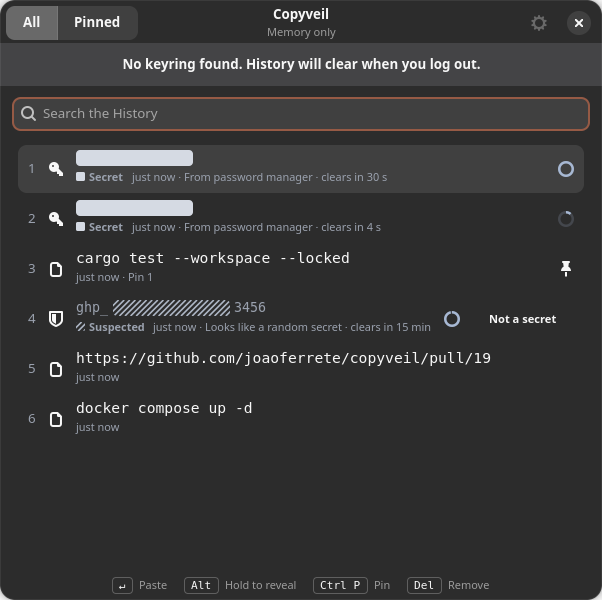
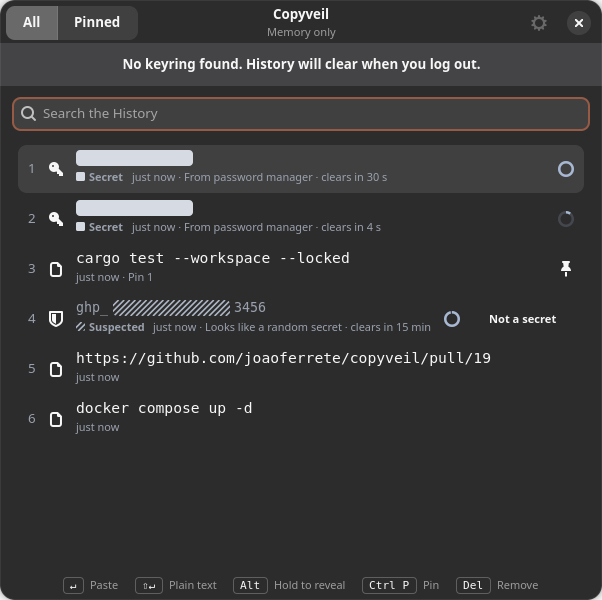
feat(app): paste rich text with its formatting, Shift+Enter as plain text (#31)
## What and why

Rich text was always pasted as plain text, and the hint bar had no
<kbd>⇧</kbd>+<kbd>↵</kbd>, both gaps from the v0.1 review. Now
<kbd>↵</kbd> keeps the formatting and <kbd>⇧</kbd>+<kbd>↵</kbd> pastes
plain text.

**Why the app sets the clipboard, not the extension.** The first plan
was a clipboard source in the extension offering HTML and plain text
together. The headless test showed GJS can't do it:

```
Error: VFunc read_async accepts another callback as a parameter. This is not supported
```

Mutter's own memory source holds a single type, so a capture source
can't offer both. The GTK app can (`gdk::ContentProvider::new_union`),
and at <kbd>↵</kbd> the popup has focus, which Wayland requires to set
the clipboard.

- **<kbd>↵</kbd> on rich text**:
  1. The app fetches the Item (`History1.Content`).
2. It puts the content on the clipboard as `text/html` and `text/plain`
together.
  3. The carbon copy plays.
  4. The popup closes and calls the new **`History1.TypePaste()`**.
5. The daemon emits **`Capture1.TypeRequested`**, and the extension only
presses <kbd>Ctrl</kbd>+<kbd>V</kbd>.

The target app takes the type it understands: an editor gets the
formatting, a terminal gets the text.
- **<kbd>⇧</kbd>+<kbd>↵</kbd>, and every other kind**: the usual
`History1.Paste` through the extension, which pastes rich text as plain
text.
- **The decision** is plain logic (`popup::paste_route`), unit tested.
- **Docs**:
[…]

Changed region(s): [[0.0897, 0.96, 0.897, 0.99]]

diff --git a/gnome-extension/daemon.js b/gnome-extension/daemon.js
@@ -28,14 +28,17 @@ export class DaemonClient {
      *
      * @param {(ids: bigint[]) => void} onExpired
      * @param {(id: bigint) => void} onPaste
+     * @param {() => void} onType called on `TypeRequested`: the app already
+     *   put the Item on the clipboard, so only press Ctrl+V
      */
-    watch(onExpired, onPaste) {
+    watch(onExpired, onPaste, onType = () => {}) {
         const subscribe = (member, handler) => this.#bus.signal_subscribe(
             BUS_NAME, CAPTURE, member, OBJECT_PATH, null, Gio.DBusSignalFlags.NONE,
             (_conn, _sender, _path, _iface, _member, params) => handler(params));
         this.#subscriptions.push(
             subscribe('Expired', params => onExpired(params.get_child_value(0).deepUnpack().map(BigInt))),
-            subscribe('PasteRequested', params => onPaste(BigInt(params.get_child_value(0).deepUnpack()))));
+            subscribe('PasteRequested', params => onPaste(BigInt(params.get_child_value(0).deepUnpack()))),
+            subscribe('TypeRequested', () => onType()));
     }
 
     /**

diff --git a/gnome-extension/extension.js b/gnome-extension/extension.js
@@ -41,7 +41,8 @@ export default class CopyveilExtension extends Extension {
         this._clipboard.watch(read => this._capture(read).catch(() => {}));
         this._daemon.watch(
             ids => this._expired(ids),
-            id => this._paste(id).catch(() => {}));
+            id => this._paste(id).catch(() => {}),
+            () => this._keyboard?.pasteSoon());
 
         this._indicator = new Indicator(this.dir.get_child('icons'), this._daemon, this._settings);
         this._daemon.watchHistory(() => this._refreshIcon().catch(() => {}));

diff --git a/crates/copyveil-app/src/window.rs b/crates/copyveil-app/src/window.rs
@@ -260,7 +260,7 @@ impl PopupWindow {
         self.list.connect_row_activated(move |_, row| {
             let id = this.state.borrow().rows.get(row_index(row)).map(|r| r.id);
             if let Some(id) = id {
-                this.paste(id);
+                this.paste(id, false);
             }
         });
 
@@ -305,7 +305,8 @@ impl PopupWindow {
             gdk::Key::Return | gdk::Key::KP_Enter => {
                 let id = self.state.borrow().popup.selected().map(|item| item.id);
                 if let Some(id) = id {
-                    self.paste(id);
+                    let plain = modifiers.contains(gdk::ModifierType::SHIFT_MASK);
+                    self.paste(id, plain);
                 }
             }
             gdk::Key::Alt_L | gdk::Key::Alt_R => self.reveal_selected(),
@@ -324,7 +325,7 @@ impl PopupWindow {
                 let id = number_key(key)
                     .and_then(|n| self.state.borrow().popup.numbered(n).map(|item| item.id));
                 if let Some(id) = id {
-                    self.paste(id);
+                    self.paste(id, false);
                 }
             }
             _ => return Propagation::Proceed,
@@ -500,7 +501,55 @@ impl PopupWindow {
 
     /// The carbon copy: a ghost of the row lifts off and fades, then the
     /// popup closes and the Item is pasted.
-    fn paste(&self, id: u64) {
+    /// Pastes an Item: rich text with Enter goes on the clipboard from here,
+    /// as HTML and plain text, while the popup still has focus (Wayland lets
+    /// only the focused app set the clipboard); everything else is pasted by
+    /// the capture source. See [`crate::popup::paste_route`].
+    fn paste(&self, id: u64, plain: bool) {
+        let item = self
+            .state
+            .borrow()
+            .popup
+            .visible()
+            .into_iter()
+            .find(|item| item.id == id)
+            .cloned();
+        let Some(item) = item else {
+            return;
+        };
+        match crate::popup::paste_route(&item, plain) {
+            crate::popup::PasteRoute::Source => self.lift_and_finish(id, false),
+            crate::popup::PasteRoute::Rich => {
+                let this = self.clone();
+                glib::spawn_future_local(async move {
+                    let Some((html, text)) = this.daemon.content(id).await else {
+                        return;
+                    };
+                    let text = if text.is_empty() { html.clone() } else { text };
+                    let providers = [
+                        gdk::ContentProvider::for_bytes(
+                            "text/html",
+                            &glib::Bytes::from_owned(html),
+                        ),
+                        gdk::ContentProvider::for_bytes(
+                            "text/plain;charset=utf-8",
+                            &glib::Bytes::from_owned(text),
+                        ),
+                    ];
+                    let _ = this
+                        .window
+                        .clipboard()
+                        .set_content(Some(&gdk::ContentProvider::new_union(&providers)));
+                    this.lift_and_finish(id, true);
+                });
+            }
+        }
+    }
+
+    /// The carbon copy, then the popup closes and the paste goes out: only
+    /// Ctrl+V when the app already filled the clipboard (`typed`), or a full
+    /// paste through the capture source.
+    fn lift_and_finish(&self, id: u64, typed: bool) {
         let row = self
             .state
             .borrow()
@@ -513,7 +562,11 @@ impl PopupWindow {
             this.hide();
             let daemon = daemon.clone();
             glib::spawn_future_local(async move {
-                daemon.paste(id).await;
+                if typed {
+                    daemon.type_paste().await;
+                } else {
+                    daemon.paste(id).await;
+                }
             });
         };
         match row.and_then(|row| self.lift_ghost(&row)) {
@@ -708,6 +761,7 @@ fn hints() -> gtk::Box {
     bar.set_margin_bottom(6);
     for (keys, action) in [
         ("↵", "Paste"),
+        ("⇧↵", "Plain text"),
         ("Alt", "Hold to reveal"),
         ("Ctrl P", "Pin"),
         ("Del", "Remove"),

diff --git a/tools/ext-smoke/clip.py b/tools/ext-smoke/clip.py
@@ -4,6 +4,11 @@
     clip.py copy TEXT      offer TEXT as text/plain
     clip.py secret TEXT    offer TEXT with the password-manager hint
     clip.py read           print the clipboard as CLIP:[...]
+    clip.py rich TEXT      offer <b>TEXT</b> as text/html, with TEXT as text/plain
+    clip.py rich-hold TEXT the same, staying the clipboard's owner for 8 s, as
+                           the app does (Mutter keeps only plain text once an
+                           owner exits)
+    clip.py formats        print the offered MIME types as CLIP-FORMATS:[...]
 
 Only ever run with synthetic markers, inside tools/ext-smoke/run.sh.
 """
@@ -17,7 +22,10 @@ def activate(app):
     win.present()
     def go():
         cb = win.get_clipboard()
-        if mode == 'read':
+        if mode == 'formats':
+            print('CLIP-FORMATS:[' + ' '.join(sorted(cb.get_formats().get_mime_types() or [])) + ']')
+            app.quit()
+        elif mode == 'read':
             def done(c, r):
                 try:
                     print('CLIP:[' + (c.read_text_finish(r) or '') + ']')
@@ -27,10 +35,13 @@ def activate(app):
             cb.read_text_async(None, done)
         else:
             providers = [Gdk.ContentProvider.new_for_bytes('text/plain;charset=utf-8', GLib.Bytes.new(sys.argv[2].encode()))]
+            if mode in ('rich', 'rich-hold'):
+                html = ('<b>' + sys.argv[2] + '</b>').encode()
+                providers.insert(0, Gdk.ContentProvider.new_for_bytes('text/html', GLib.Bytes.new(html)))
             if mode == 'secret':
                 providers.append(Gdk.ContentProvider.new_for_bytes('x-kde-passwordManagerHint', GLib.Bytes.new(b'secret')))
             cb.set_content(Gdk.ContentProvider.new_union(providers))
-            GLib.timeout_add(2500, lambda: app.quit())
+            GLib.timeout_add(8000 if mode == 'rich-hold' else 2500, lambda: app.quit())
         return False
     GLib.timeout_add(700, go)
 app.connect('activate', activate)

diff --git a/crates/copyveil-app/src/popup/tests.rs b/crates/copyveil-app/src/popup/tests.rs
@@ -1,4 +1,7 @@
-use super::{NUMBERED_ROWS, PinRefusal, Popup, Tab, appeared, detector_for, expired, row_number};
+use super::{
+    NUMBERED_ROWS, PasteRoute, PinRefusal, Popup, Tab, appeared, detector_for, expired,
+    paste_route, row_number,
+};
 use copyveil_dbus::ItemSummary;
 
 fn item(id: u64, sensitivity: &str, pin_slot: u32) -> ItemSummary {
@@ -214,4 +217,17 @@ fn only_rows_whose_expiry_came_dissolve() {
     // Removed by hand before its Expiry: it just goes.
     assert!(expired(&shown, &[1, 3], 5).is_empty());
     assert_eq!(expired(&shown, &[], 9), [1, 2, 3]);
+}
+
+#[test]
+fn rich_text_keeps_its_formatting_unless_pasted_as_plain_text() {
+    let mut rich = item(1, "plain", 0);
+    rich.kind = "rich-text".into();
+    assert_eq!(paste_route(&rich, false), PasteRoute::Rich);
+    assert_eq!(paste_route(&rich, true), PasteRoute::Source);
+    assert_eq!(paste_route(&item(2, "plain", 0), false), PasteRoute::Source);
+    assert_eq!(
+        paste_route(&item(3, "secret", 0), false),
+        PasteRoute::Source
+    );
 }

diff --git a/crates/copyveil-daemon/src/bus.rs b/crates/copyveil-daemon/src/bus.rs
@@ -220,6 +220,15 @@ impl HistoryService {
         Ok(())
     }
 
+    /// Asks the capture source to press Ctrl+V without touching the
+    /// clipboard: the app already put an Item there itself, in several types
+    /// (rich text as HTML and plain text), which a capture source can't.
+    async fn type_paste(&self, #[zbus(connection)] connection: &Connection) -> Result<(), Error> {
+        let emitter = SignalEmitter::new(connection, OBJECT_PATH)?;
+        CaptureService::type_requested(&emitter).await?;
+        Ok(())
+    }
+
     /// Removes an Item.
     async fn remove(
         &self,
@@ -352,6 +361,10 @@ impl CaptureService {
     /// put it on the clipboard and paste it.
     #[zbus(signal)]
     async fn paste_requested(emitter: &SignalEmitter<'_>, id: u64) -> zbus::Result<()>;
+
+    /// The clipboard already holds what to paste: just press Ctrl+V.
+    #[zbus(signal)]
+    async fn type_requested(emitter: &SignalEmitter<'_>) -> zbus::Result<()>;
 }
 
 /// Builds both interfaces over `shared`.

diff --git a/crates/copyveil-app/src/popup.rs b/crates/copyveil-app/src/popup.rs
@@ -229,3 +229,26 @@ pub fn expired<T: PartialOrd + Copy>(expiring: &[(u64, T)], now_ids: &[u64], now
         .map(|(id, _)| *id)
         .collect()
 }
+
+/// How a paste goes out.
+#[derive(Debug, Clone, Copy, PartialEq, Eq)]
+pub enum PasteRoute {
+    /// The app puts the Item on the clipboard itself, as HTML and plain text
+    /// together (a capture source can offer only one type), then asks the
+    /// capture source to press Ctrl+V (`History1.TypePaste`).
+    Rich,
+    /// The capture source puts the Item on the clipboard and pastes
+    /// (`History1.Paste`): rich text goes in as plain text.
+    Source,
+}
+
+/// Rich text pasted with Enter keeps its formatting; Shift+Enter, and every
+/// other kind, goes through the capture source.
+#[must_use]
+pub fn paste_route(item: &ItemSummary, plain: bool) -> PasteRoute {
+    if item.kind == copyveil_dbus::kind::RICH_TEXT && !plain {
+        PasteRoute::Rich
+    } else {
+        PasteRoute::Source
+    }
+}

diff --git a/crates/copyveil-dbus/src/lib.rs b/crates/copyveil-dbus/src/lib.rs
@@ -107,6 +107,9 @@ pub trait History {
     fn pin_slot(&self, slot: u32) -> zbus::Result<u64>;
     /// Asks the capture source to paste the Item.
     fn paste(&self, id: u64) -> zbus::Result<()>;
+    /// Asks the capture source to press Ctrl+V, after the app put an Item
+    /// on the clipboard itself.
+    fn type_paste(&self) -> zbus::Result<()>;
     /// Removes the Item.
     fn remove(&self, id: u64) -> zbus::Result<()>;
     /// Pins a Plain Item.
@@ -149,6 +152,9 @@ pub trait Capture {
     /// The user asked to paste this Item.
     #[zbus(signal)]
     fn paste_requested(&self, id: u64) -> zbus::Result<()>;
+    /// The clipboard already holds what to paste: press Ctrl+V.
+    #[zbus(signal)]
+    fn type_requested(&self) -> zbus::Result<()>;
 }
 
 /// Client side of `io.github.joaoferrete.Copyveil.Settings1`. The daemon

diff --git a/crates/copyveil-app/src/daemon.rs b/crates/copyveil-app/src/daemon.rs
@@ -258,6 +258,20 @@ impl Daemon {
         Some(String::from_utf8_lossy(&text).into_owned())
     }
 
+    /// One Item's content and plain-text fallback, as bytes: for pasting rich
+    /// text from the app.
+    pub async fn content(&self, id: u64) -> Option<(Vec<u8>, Vec<u8>)> {
+        self.call(move |history| async move { history.content(id).await })
+            .await
+    }
+
+    /// Asks the capture source to press Ctrl+V, after the app put an Item on
+    /// the clipboard itself.
+    pub async fn type_paste(&self) -> Option<()> {
+        self.call(|history| async move { history.type_paste().await })
+            .await
+    }
+
     /// Asks the capture source to paste the Item.
     pub async fn paste(&self, id: u64) -> Option<()> {
         self.call(move |history| async move { history.paste(id).await })

diff --git a/crates/copyveil-daemon/tests/bus.rs b/crates/copyveil-daemon/tests/bus.rs
@@ -310,3 +310,11 @@ async fn suspected_items_show_their_ends_and_secrets_never_do() {
     assert_eq!(ends[&aws], ("AKIA".to_owned(), "CGWN".to_owned()));
     assert!(!ends.contains_key(&secret));
 }
+
+#[tokio::test]
+async fn type_paste_asks_only_for_ctrl_v() {
+    let d = memory_daemon(Settings::default()).await;
+    let mut typed = d.capture.receive_type_requested().await.unwrap();
+    d.history.type_paste().await.unwrap();
+    typed.next().await.unwrap();
+}

diff --git a/docs/dbus.md b/docs/dbus.md
@@ -25,7 +25,8 @@ Any process running as the user can call these methods. This is inside the threa
 | `Search(query)` | `s → at` | Ids of matching Items, newest first. Masked Items match only on their description. |
 | `Content(id)` | `t → (ayay)` | The Item's content and its plain-text fallback (empty when there is none). |
 | `PinSlot(slot)` | `u → t` | The id of the Item in Pin slot `slot`, counting from 1. |
-| `Paste(id)` | `t → ()` | Asks the capture source to paste the Item: emits `Capture1.PasteRequested`. |
+| `Paste(id)` | `t → ()` | Asks the capture source to paste the Item: emits `Capture1.PasteRequested`. The capture source puts a single type on the clipboard, so rich text goes in as its plain text. |
+| `TypePaste()` | `→ ()` | Asks the capture source to press Ctrl+V without touching the clipboard: emits `Capture1.TypeRequested`. The app uses it after putting rich text on the clipboard itself, as HTML and plain text together. |
 | `Remove(id)` | `t → ()` | Removes the Item. |
 | `Pin(id)` | `t → ()` | Pins a Plain Item into the next free Pin slot. |
 | `Unpin(id)` | `t → ()` | Unpins the Item. Later Pins move up a slot. |
@@ -69,6 +70,7 @@ Each element of `List` is a struct with these fields, in order:
 | `Capture(mime, content, plain_fallback, password_manager_hint)` | `sayayb → t` | Reports a clipboard change and returns the Item's id. Keep the id: it is how `Expired` tells you to clear the clipboard. |
 | `Expired(ids)` | signal `at` | These Items reached their Expiry and are gone. If the clipboard still holds one of them, clear it. |
 | `PasteRequested(id)` | signal `t` | The user asked to paste this Item. Fetch it with `History1.Content`, put it on the clipboard and paste. |
+| `TypeRequested()` | signal | The clipboard already holds what to paste: press Ctrl+V. |
 
 `mime` is the type the source chose from what the clipboard offered:
 

diff --git a/docs/design/README.md b/docs/design/README.md
@@ -61,6 +61,24 @@ The app as of the latest UI change, generated with `just app-screenshot` from sy
 
 Regenerate them in any PR that changes how the app looks.
 
+## Popup keyboard
+
+Typing always goes to the search. Everything else:
+
+| Keys | What it does |
+|---|---|
+| <kbd>↑</kbd> <kbd>↓</kbd>, <kbd>Page Up</kbd> <kbd>Page Down</kbd> | Move the selection |
+| <kbd>↵</kbd> | Paste the selected Item. Rich text keeps its formatting: the app offers HTML and plain text together, and the target app takes what it understands |
+| <kbd>⇧</kbd>+<kbd>↵</kbd> | Paste as plain text |
+| <kbd>Ctrl</kbd>+<kbd>1…9</kbd> | Paste the row with that number |
+| hold <kbd>Alt</kbd> | Reveal the selected masked Item, for at most 5 s |
+| <kbd>Ctrl</kbd>+<kbd>P</kbd> | Pin or unpin (Plain Items only) |
+| <kbd>Ctrl</kbd>+<kbd>N</kbd> | "Not a secret" on a Suspected Item |
+| <kbd>Del</kbd> | Remove (when the search is empty) |
+| <kbd>Ctrl</kbd>+<kbd>Tab</kbd> | Switch between All and Pinned |
+| <kbd>Ctrl</kbd>+<kbd>,</kbd> | Settings |
+| <kbd>Esc</kbd> | Close |
+
 ## Motion
 
 | Moment | What happens | Timing |
